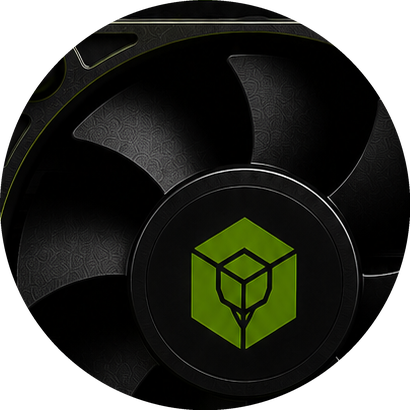
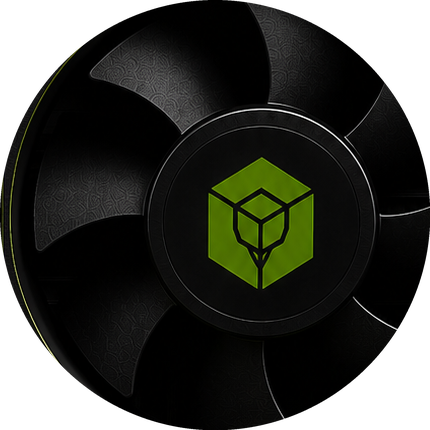
Mise à jour AXECUBE — 2026-08-07 01:40

diff --git a/axecube.js b/axecube.js
@@ -4118,14 +4118,14 @@ charger();setInterval(charger,5000);
   .lien:hover{border-color:var(--amber)}
   h1{font-size:16px;font-weight:600;color:var(--amber);text-shadow:var(--glow)}
   .sub{font-size:11px;color:var(--mut);margin-top:8px;flex-basis:100%}
-  .grille{display:grid;grid-template-columns:repeat(auto-fit,minmax(260px,1fr));gap:26px}
-  .carteMachine{position:relative;width:100%;aspect-ratio:1023/1537;container-type:size;container-name:carte;
+  .grille{display:grid;grid-template-columns:repeat(auto-fit,minmax(260px,1fr));gap:26px;justify-items:center}
+  .carteMachine{position:relative;width:100%;max-width:420px;aspect-ratio:1023/1537;container-type:size;container-name:carte;
     background-image:url('/assets/bitaxe-board.png?v=${AXECUBE_VERSION}');background-size:contain;background-repeat:no-repeat;
     filter:drop-shadow(0 10px 24px rgba(0,0,0,.55))}
   .carteMachine.hors-ligne{filter:grayscale(1) opacity(.45)}
   .carteMachine.hors-ligne .ventilo,.carteMachine.hors-ligne .contourGlow,.carteMachine.hors-ligne .barreGlow{animation-play-state:paused;opacity:.15}
   /* Ventilateur : disque de pales extrait de la photo, tourne par-dessus le cadre fixe */
-  .ventilo{position:absolute;left:25.61%;top:52.70%;width:40.08%;aspect-ratio:1/1;
+  .ventilo{position:absolute;left:23.95%;top:56.60%;width:42.03%;aspect-ratio:1/1;
     background-image:url('/assets/fan-blade.png?v=${AXECUBE_VERSION}');background-size:contain;background-repeat:no-repeat;
     animation:tournerVentilo 2.2s linear infinite;transform-origin:center center}
   @keyframes tournerVentilo{from{transform:rotate(0deg)}to{transform:rotate(360deg)}}
@@ -4148,20 +4148,20 @@ charger();setInterval(charger,5000);
     border-radius:2%/1.6%;overflow:hidden;background:#05070a;
     display:grid;grid-template-rows:9% 19% 15% 15% 15% 13%;row-gap:2%;padding:5% 6%;box-sizing:border-box}
   .eLigne{height:100%;min-height:0;display:flex;align-items:center;justify-content:space-between;min-width:0}
-  .ecranLogo{display:flex;align-items:center;gap:5px;font-weight:700;color:var(--white);font-size:min(8cqw,25cqh,24px);
+  .ecranLogo{display:flex;align-items:center;gap:5px;font-weight:700;color:var(--white);font-size:min(9.5cqw,29cqh,29px);
     min-width:0;flex-shrink:1;overflow:hidden;white-space:nowrap}
   .ecranLogo span{overflow:hidden;text-overflow:ellipsis}
   .ecranLogo svg{width:1.1em;height:1.1em}
-  .statut{color:var(--amber);display:flex;align-items:center;gap:4px;font-weight:700;font-size:min(7cqw,23cqh,19px);
+  .statut{color:var(--amber);display:flex;align-items:center;gap:4px;font-weight:700;font-size:min(8.3cqw,27cqh,23px);
     min-width:0;flex-shrink:1;overflow:hidden}
   .statut span:last-child{overflow:hidden;text-overflow:ellipsis;white-space:nowrap}
   .statut .pt{width:6px;height:6px;border-radius:50%;background:var(--amber);flex-shrink:0}
   .statut.off{color:var(--mut)}
   .statut.off .pt{background:var(--mut)}
   .blocHash{height:100%;min-height:0;min-width:0;display:flex;flex-direction:column;justify-content:center;overflow:hidden}
-  .ecranLabel{font-size:min(5cqw,15cqh,16px);color:var(--mut);letter-spacing:.1em;line-height:1.2;flex-shrink:0}
-  .ecranHash{font-weight:800;color:var(--white);font-size:min(17cqw,29cqh,66px);line-height:1;display:flex;align-items:baseline;gap:5px;overflow:hidden;min-width:0;flex-shrink:0}
-  .ecranHash span{font-size:min(7cqw,13cqh,25px);font-weight:700;color:var(--amber);white-space:nowrap;flex-shrink:0}
+  .ecranLabel{font-size:min(6cqw,18cqh,19px);color:var(--mut);letter-spacing:.1em;line-height:1.2;flex-shrink:0}
+  .ecranHash{font-weight:800;color:var(--white);font-size:min(19cqw,32cqh,76px);line-height:1;display:flex;align-items:baseline;gap:5px;overflow:hidden;min-width:0;flex-shrink:0}
+  .ecranHash span{font-size:min(8cqw,15cqh,29px);font-weight:700;color:var(--amber);white-space:nowrap;flex-shrink:0}
   .spark{display:none;width:100%;flex:1 1 0;min-height:0;margin-top:2%}
   .spark svg{width:100%;height:100%;display:block}
   @container carte (min-height: 520px){
@@ -4171,9 +4171,9 @@ charger();setInterval(charger,5000);
   .eGrid{height:100%;min-height:0;min-width:0;display:grid;grid-auto-flow:column;grid-auto-columns:1fr;
     align-items:center;gap:0 4%}
   .eGrid>div{overflow:hidden;min-width:0;display:flex;flex-direction:column;justify-content:center;gap:2%}
-  .eGrid span{font-size:min(4.6cqw,14cqh,15px);color:var(--mut);letter-spacing:.08em;
+  .eGrid span{font-size:min(5.4cqw,16cqh,17px);color:var(--mut);letter-spacing:.08em;
     overflow:hidden;text-overflow:ellipsis;white-space:nowrap}
-  .eGrid b{font-size:min(5.8cqw,17cqh,20px);color:var(--white);font-weight:700;
+  .eGrid b{font-size:min(6.8cqw,19cqh,23px);color:var(--white);font-weight:700;
     overflow:hidden;text-overflow:ellipsis;white-space:nowrap}
   .eGrid .accent b{color:var(--amber)}
   .eGrid .rej{color:var(--mut);font-weight:400;font-size:0.8em}
